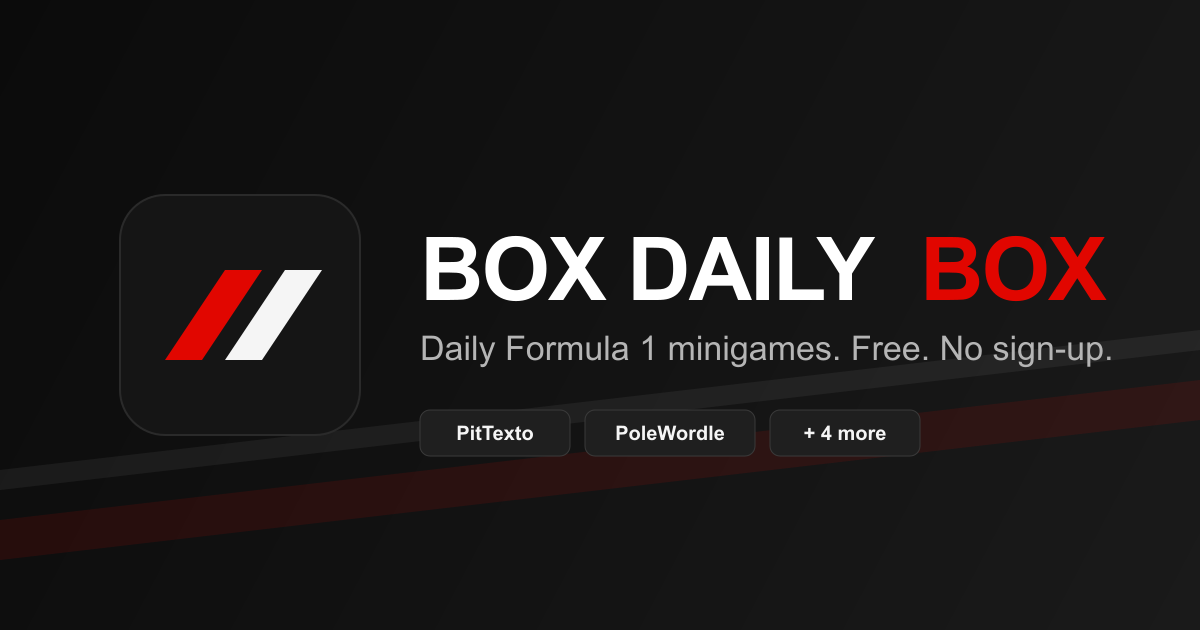
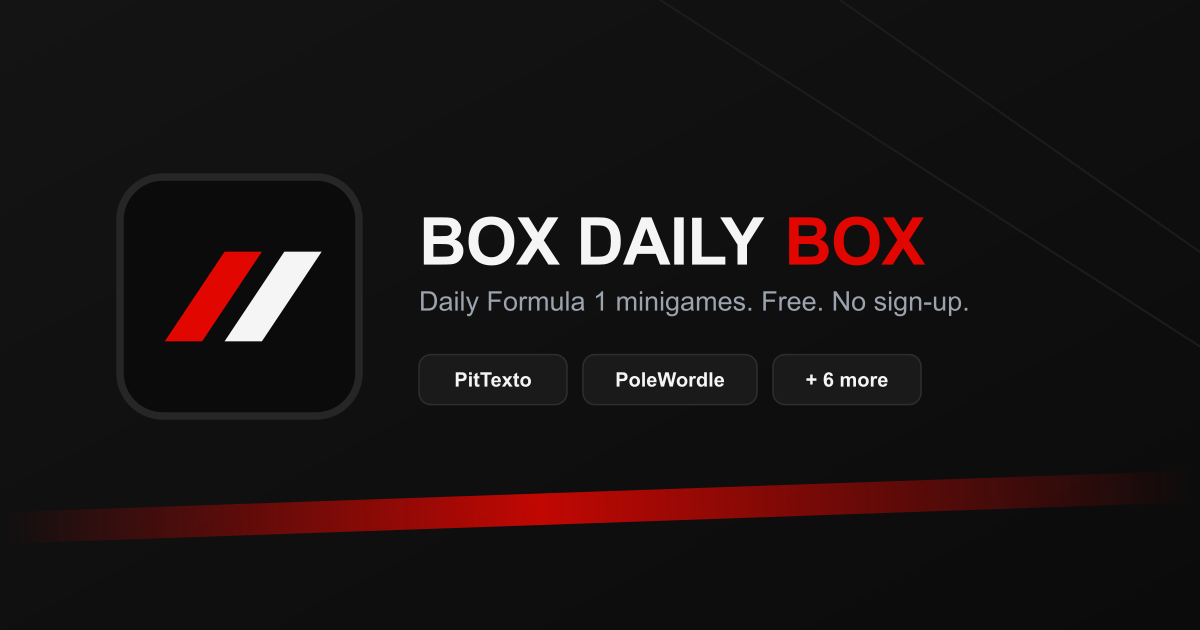
feat: configurar links de apoyo (Ko-fi, Cafecito) + fix tagline Team Radio
- src/lib/support.ts: reemplazar placeholders por las cuentas reales
  (cafecito.app/boxdailybox, ko-fi.com/boxdailybox).
- es.ts: sacar el chiste "(con los ojos)" del tagline de Team Radio,
  que quedaba fuera de lugar - ahora usa la misma redaccion simple que
  el resto de los 13 idiomas ("Lee una radio...").
- public/og-image.png: regenerado para reflejar los 8 juegos reales
  (todavia decia "+4 more" = 6 juegos).
- CLAUDE.md: documentar que el conteo de juegos en SEO (texto + banner)
  debe actualizarse junto con registry.ts.

diff --git a/src/lib/support.ts b/src/lib/support.ts
@@ -1,12 +1,7 @@
 // src/lib/support.ts
 //
 // Links de apoyo voluntario (Términos §7 / Sección de apoyo en el Home).
-// Ninguno de los dos está creado todavía — ver Box_Daily_Box_Context.md.
-// Reemplazar por la URL real apenas exista la cuenta; es el único lugar del
-// código donde viven, así que el cambio es de una línea.
 
-/** TODO: completar con la cuenta real de Cafecito (Argentina). */
-export const CAFECITO_URL = "https://cafecito.app/COMPLETAR";
+export const CAFECITO_URL = "https://cafecito.app/boxdailybox";
 
-/** TODO: completar con la cuenta real de Ko-fi (internacional). */
-export const KOFI_URL = "https://ko-fi.com/COMPLETAR";
+export const KOFI_URL = "https://ko-fi.com/boxdailybox";

diff --git a/src/pages/Home.tsx b/src/pages/Home.tsx
@@ -60,8 +60,7 @@ export function Home() {
 /**
  * Apoyo voluntario (Términos §7). Discreta a propósito: no es un feature del
  * juego, es un link de salida hacia un tercero. Cafecito para Argentina,
- * Ko-fi para el resto — el operador todavía no creó ninguna de las dos
- * cuentas (ver src/lib/support.ts), así que los links son placeholders.
+ * Ko-fi para el resto (URLs en src/lib/support.ts).
  */
 function SupportCard() {
   const { t } = useI18n();

diff --git a/src/i18n/es.ts b/src/i18n/es.ts
@@ -403,7 +403,7 @@ const es: Translations = {
   "careerpath.answer_was": "El piloto era:",
 
   "game.team-radio.name": "Team Radio",
-  "game.team-radio.tagline": "Escucha (con los ojos) una radio icónica de F1 y adivina en qué Gran Premio se dijo.",
+  "game.team-radio.tagline": "Lee una radio icónica de equipo de F1 y adivina en qué Gran Premio se dijo.",
 
   "lang.label": "Idioma",
 

diff --git a/CLAUDE.md b/CLAUDE.md
@@ -114,6 +114,20 @@ Seguridad: HMAC-SHA256 (sessionToken + identityToken). Server-authoritative.
   `Box_Daily_Box_Context.md` — es la fuente autoritativa (incluye keys SEO,
   patrón `I18nText`, y las 9 listas backend); este archivo solo resume los invariantes
   críticos. Detalle de historial de bugs en el mismo archivo.
+- **Si cambia la cantidad de juegos, o cualquier dato que el SEO menciona
+  explícitamente (número de juegos, idiomas, features destacadas), hay que
+  actualizar el SEO en el mismo cambio.** Las claves `seo.home.title` y
+  `seo.home.description` (en los 14 archivos `src/i18n/*.ts`) hardcodean la
+  cantidad de juegos en texto — no se derivan de `registry.ts`, así que
+  agregar o quitar un juego sin tocarlas deja SEO desactualizado, indexado
+  por Google y visible en la pestaña del navegador. **Lo mismo aplica a
+  `public/og-image.png`** (banner de preview social, usado por
+  `src/lib/seo.ts`): es una imagen estática sin fuente editable en el
+  repo — al cambiar la cantidad de juegos hay que regenerarla (pills
+  "PitTexto", "PoleWordle", "+ N more" donde N = total − 2) y commitearla
+  junto con el resto del cambio. Al agregar/quitar un juego, grepear
+  `seo.home.title`/`seo.home.description` en `src/i18n/` y revisar
+  `public/og-image.png` a ojo.
 
 ## Idioma y registro en textos de usuario
 
